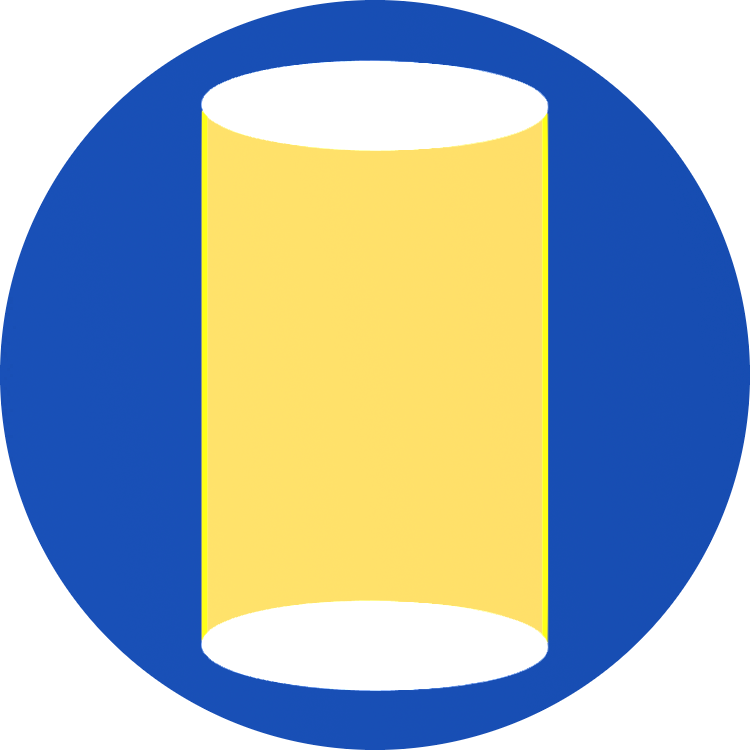
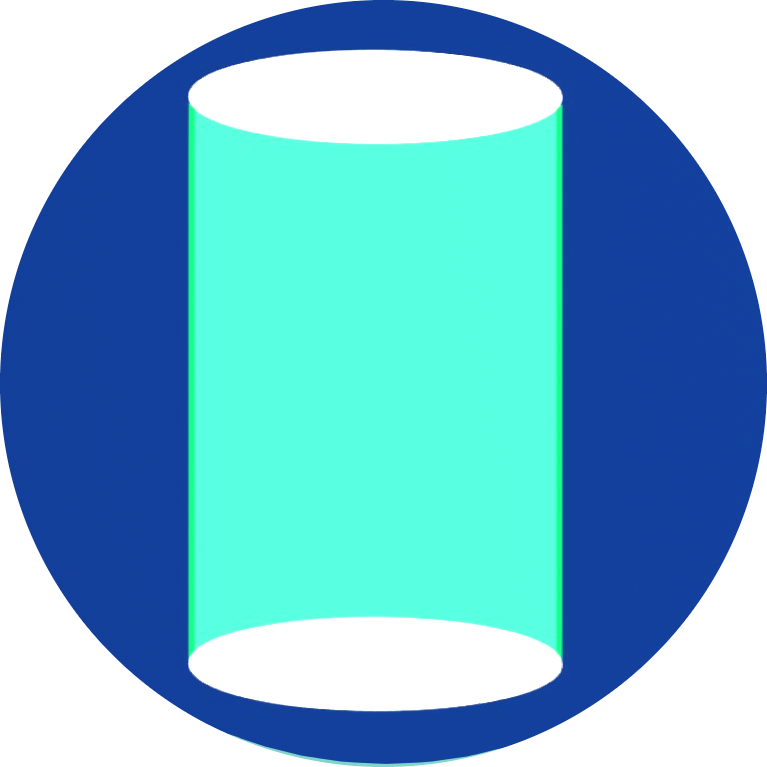
color update, removed content

diff --git a/src/index.html b/src/index.html
@@ -29,13 +29,15 @@
       <div
         class="font-extralight bg-white shadow-lg py-8 px-0 m-auto  main-card"
       >
-        <div class="grid justify-items-center px-3 py-2">
-          <div class="flex rounded-full items-center bg-highlight px-2 py-6">
-            <h1 class="text-white w-100 mr-2">68432</h1>
+        <div class="grid  justify-items-center px-3 py-2">
+          <div class="flex w-11/12 rounded-full items-center bg-highlight px-2 py-6">
+            <h1 class="text-white w-100 mr-2">
+              <!-- Text goes here -->
+            </h1>
             <img
               src="./img/headimg.png"
               alt="Tailwind CSS Logo"
-              class="w-24 h-24 "
+              class="w-24 h-24 ml-auto"
             />
           </div>
 
@@ -46,29 +48,31 @@
         <div class="mt-4 bg-highlight px-4 text-2xl text-white text-content">
           <div class="px-2 py-6 grid grid-rows-4">
             <div class="content-center flex-1">
-              <p class=" ">Project: Wind Energy</p>
+              <p class=" ">Project: <!--Text goes here--></p>
             </div>
             <div class="content-center flex-1">
-              <p class=" ">Location: India</p>
+              <p class=" ">Location: <!--Text goes here--></p>
             </div>
             <div class="content-center flex-1">
-              <p class=" ">Source: GS</p>
+              <p class=" ">Source: <!--Text goes here--></p>
             </div>
             <div class="content-center flex-1">
-              <p class=" ">Vintage: 2020</p>
+              <p class=" ">Vintage: <!--Text goes here--></p>
             </div>
           </div>
         </div>
-        <div class="flex foot rounded-full items-center bg-highlight px-2 py-2 grid-cols-2 mt-5 mx-auto allow-overlap">
+        <div class="flex foot w-10/12 rounded-full items-center bg-highlight px-2 py-2 grid-cols-2 mt-5 mx-auto allow-overlap">
           <div class="grid grid-rows-2">
-          <p class="text-sm text-white w-100 mr-2 ">ID: IN-5-277480604-2-2-0-6484</p>
-          <p class="text-sm text-white w-100 mr-2 ">- IN-5-277549035-2-2-0-6484</p>
+          <!-- <p class="text-sm text-white w-100 mr-2 ">ID: IN-5-277480604-2-2-0-6484</p>
+          <p class="text-sm text-white w-100 mr-2 ">- IN-5-277549035-2-2-0-6484</p> -->
+          <p class="text-sm text-white w-100 mr-2 "><!--Text goes here--></p>
+          <p class="text-sm text-white w-100 mr-2 "><!--Text goes here--></p>
           </div>
 
           <img
             src="./img/carbovalentlogo.png"
             alt="Tailwind CSS Logo"
-            class="w-20 h-20 overlap-img"
+            class="w-20 h-20 overlap-img ml-auto mr-1 mb-1"
           />
         </div>
 

diff --git a/src/styles.css b/src/styles.css
@@ -5,7 +5,7 @@
     border-radius: 50%/30px;
     /* TEXT SHADOW: offset-x | offset-y | color */
     text-shadow: 1.5px 0px rgb(188, 187, 187);
-    background-color: #fedd77;
+    background-color: #8bdbd8;
     width: 21rem;
     box-shadow: 3.5px 0px rgba(0, 0, 0, 0.5);
 
@@ -17,7 +17,7 @@ h1 {
 }
 
 .bg-highlight {
-    background-color: #ffea5d;
+    background-color: #7ad0c5;
 }
 
 .text-content {
